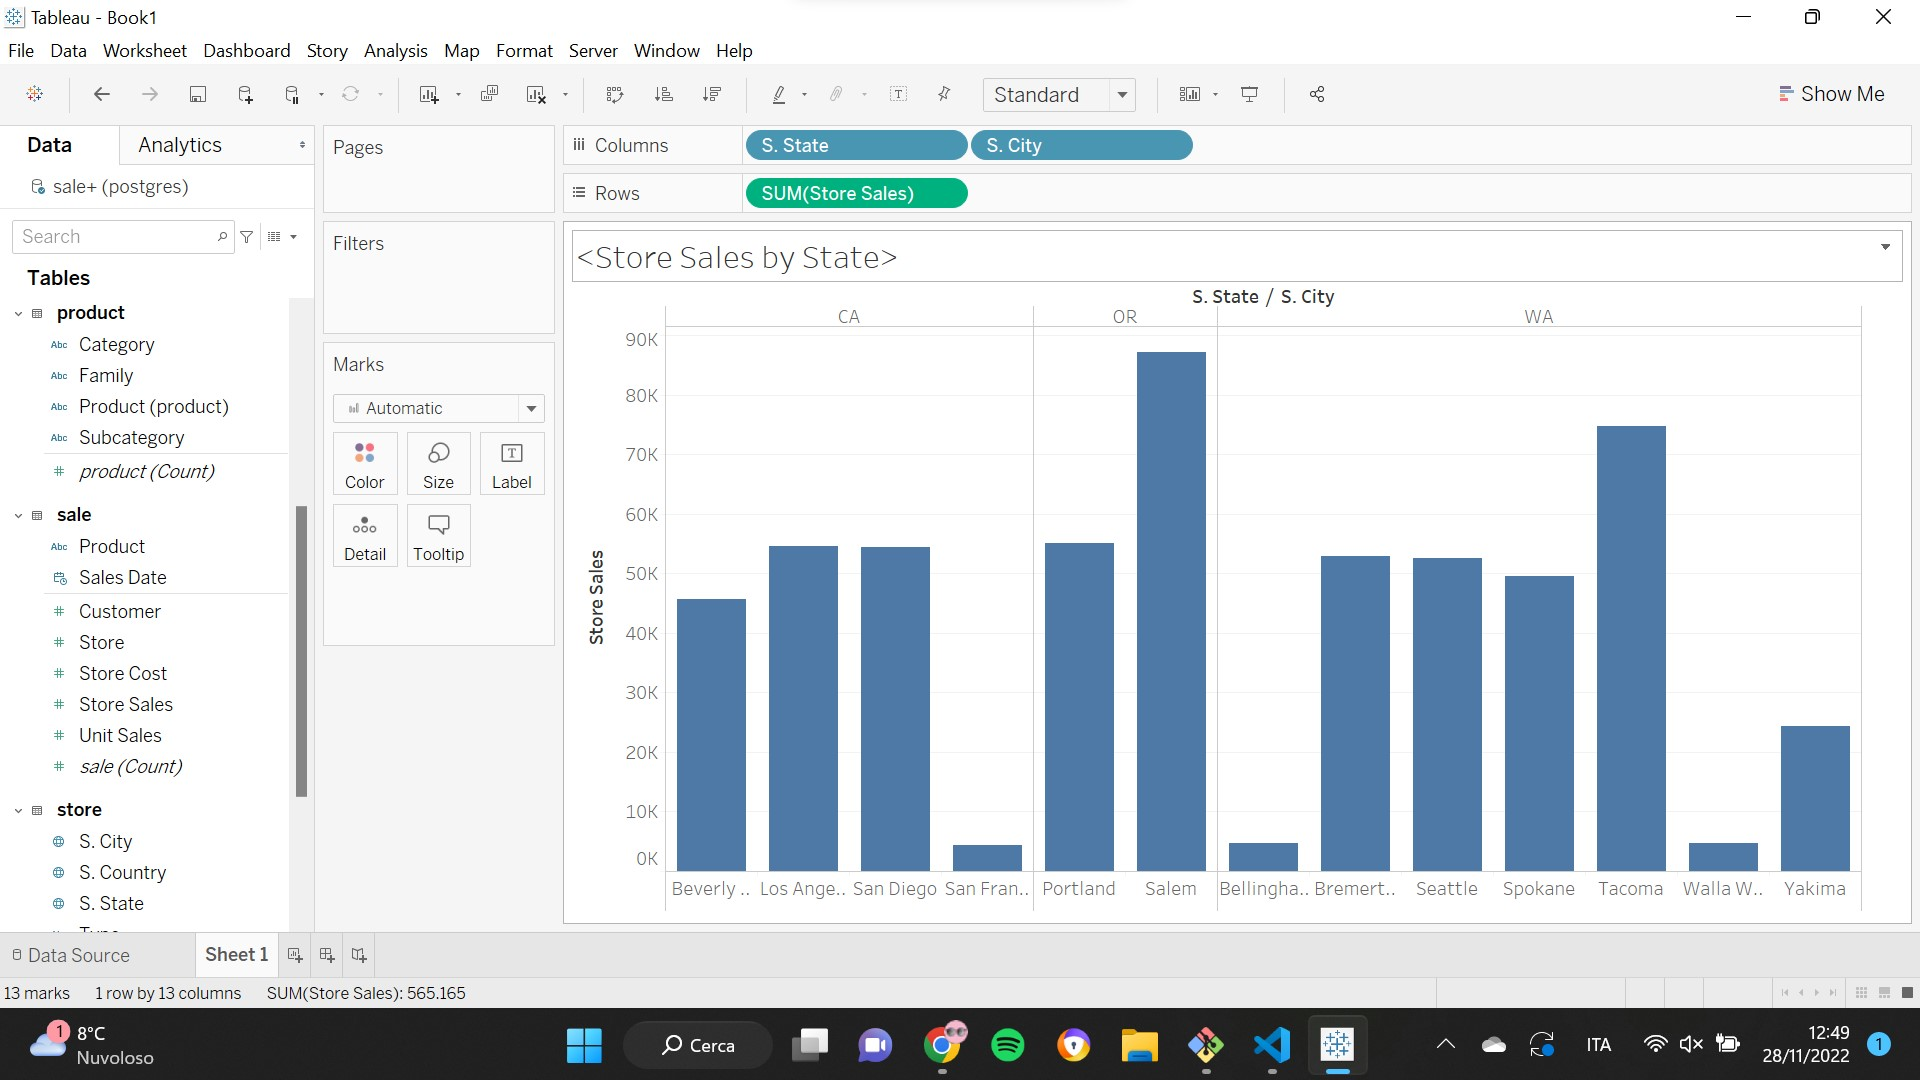
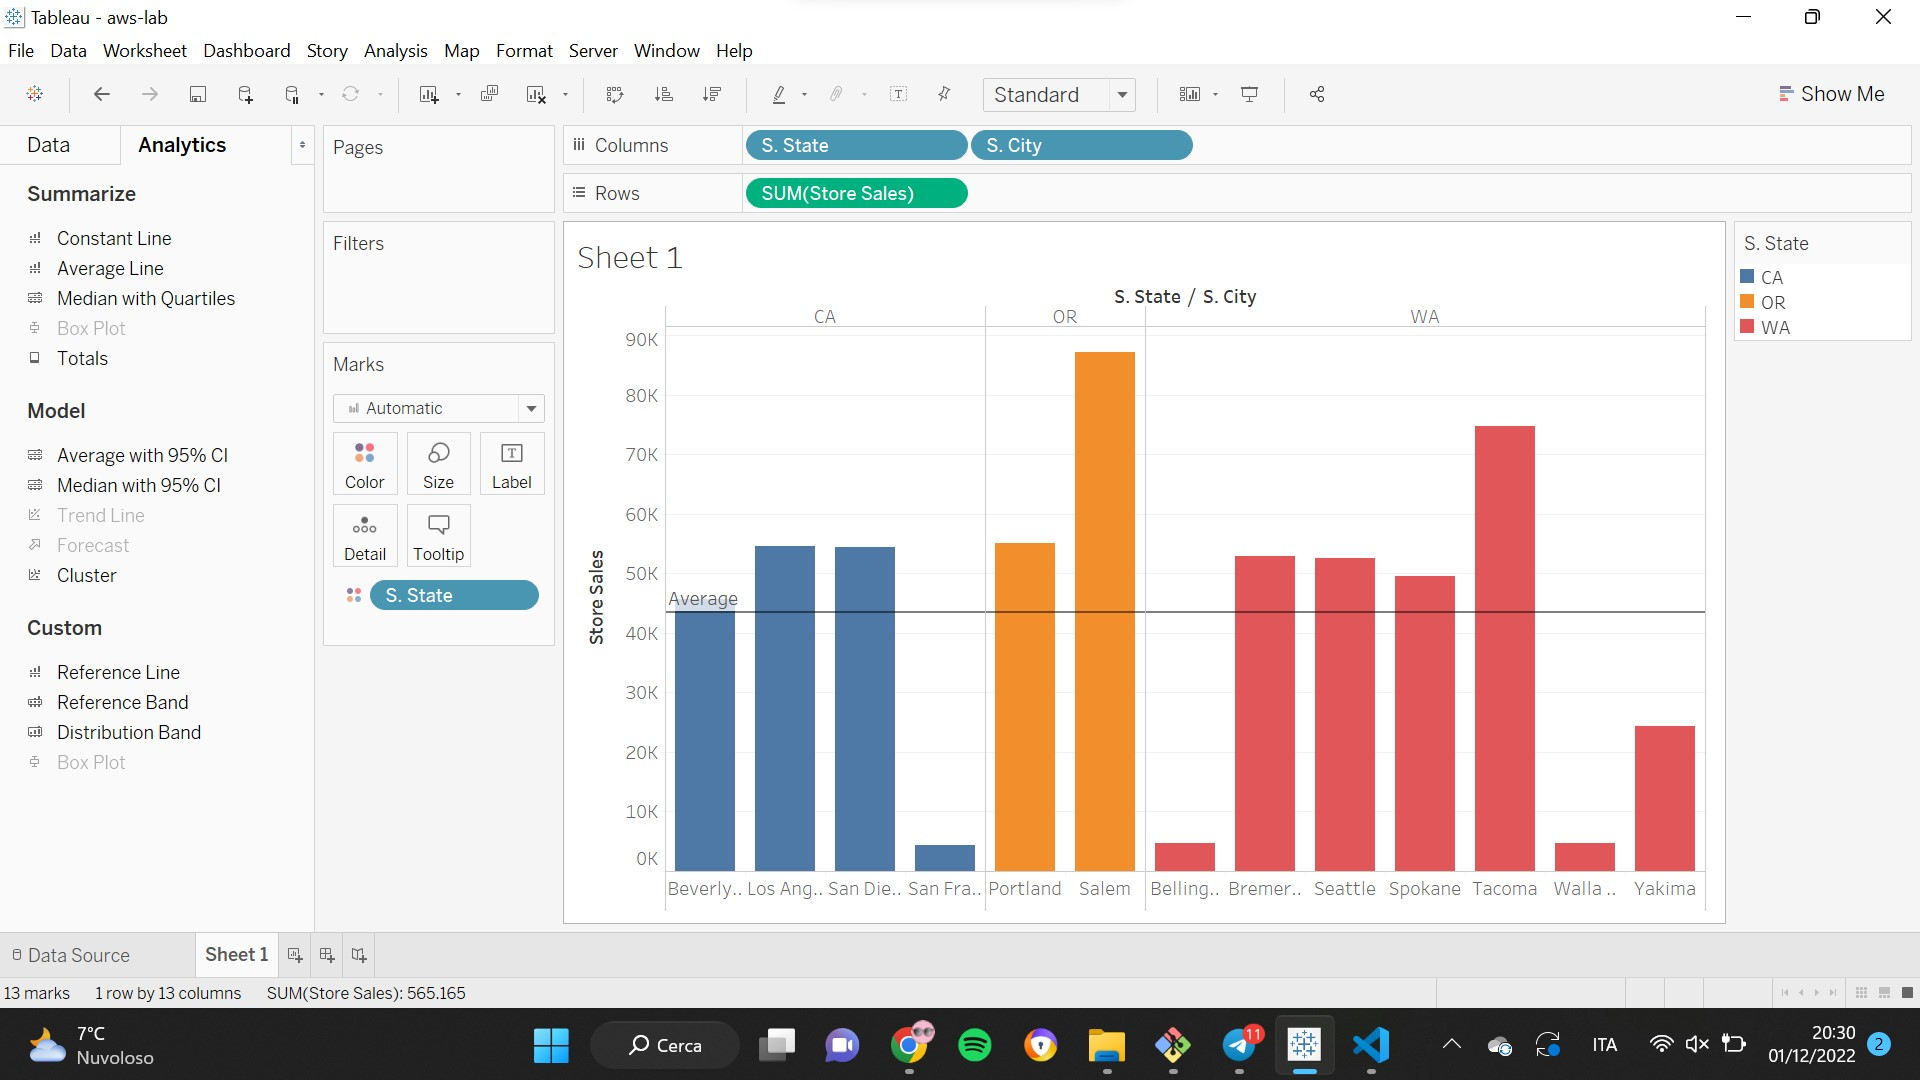
update aws lab

diff --git a/cloud-platforms/exercise/aws-lab.md b/cloud-platforms/exercise/aws-lab.md
@@ -18,7 +18,7 @@ df = pd.concat(map(pd.read_csv, ["s3://landing-raw-sales-911/sales_fact_1997.sli
 print(df)
 ```
 
-Now that we have prepared data, we store them into the **staging bucket**:
+Now that we have prepared the data, we store them into the **staging bucket**:
 
 ```python
 wr.s3.to_csv(df = df, path = staging_bucket + "merged-sales-fact", index = False)
@@ -83,20 +83,70 @@ ft_sales.to_sql('sale', engine, index=False, if_exists='replace')
 
 We load the data on Tableau through Server (PostGRE) and we are ready to query the Data Warehouse to get useful insights.
 
-### Exercise 1:
+### Exercise 1
 
-Display the sum of store sales divided by state:
-
-*to be continued*
+*Display the sum of store sales divided by state*
 
 ![](screen-1.jpg)
 
+The state with the highest *store sales* is Washington, followed by California and Oregon.
+
 ![](screen-2.jpg)
+
+As we can see, some cities are way above the average line, in particular the city of San Francisco, Bellingham, Walla Walla and Yakima.
+
+*How many stores are there in each city and in each state?*
 
 ![](screen-3.jpg)
 
 ![](screen-4.jpg)
 
+To perform this calculation, we use `COUNTD`in order to count only the number of unique items and avoid the risk of miscalculating. As we can see, there is one single store per each city and, of course, the number of stores per state is proportionate to the number of cities.
+
+*Can low sales in some cities be imputed to the number of stores?*
+
 ![](screen-5.jpg)
 
+Considering that the number of stores in each is city is the same (1), we have no elements to believe that the store sales depends on this quantity.
+
+### Exercise 2
+
+*Associate the Store Type field with the color property and identify the pattern*
+
 ![](screen-6.jpg)
+
+Looking at the figure, we can clearly identify a pattern between the store sales and the type of store. The store type with highest volume of sales is the **Deluxe Supermarket**, followed by Supermarkets, Gourmet Supermarkets, Mid-size and Small Groceries.
+
+*Display the store sales for each Store Type. What discrepancy is possible to notice with respect to the previous chart?*
+
+![](screen-7.jpg)
+
+Based on the previous chart, we would expect deluxe supermarkets to have the highest sales amount, but, on the contrary, **supermarkets** show the highest value.
+
+*What caused the discrepancy between the previous two visualizations?*
+
+![](screen-8.jpg)
+
+If we consider the number of stores for each store type, we can see that supermarkets are six while deluxe supermarkets are just two. This aspect explains the discrepancy between the two previous charts.
+
+### Exercise 3
+
+*Display the monthly sales trend*
+
+![](screen-9.jpg)
+
+The graph presents some ups and downs over the given period. In particular, we can identify three peaks during which the sales amount exceeds the average value: the first one is in March, the second in July and the last one from November to December.
+
+*Is the previous pattern present in each state?*
+
+![](screen-10.jpg)
+
+By dividing the previous chart by state, the three peaks initially identified are less evident in California and Washington but we can still distinguish the growing trend over the last two months. 
+
+On the other hand, for the state of Oregon we can clearly distinguish the peaks of sales during March, July and November.
+
+*Given the previous chart, visualize how much impact the various families have on total sales while maintaining the monthly trend visualization*
+
+![](screen-11.jpg)
+
+As we can see from the chart, the different families of products have different weights on the total sales. **Food** has the highest impact on total sales, while non consumables and drinks are much less relevant.
